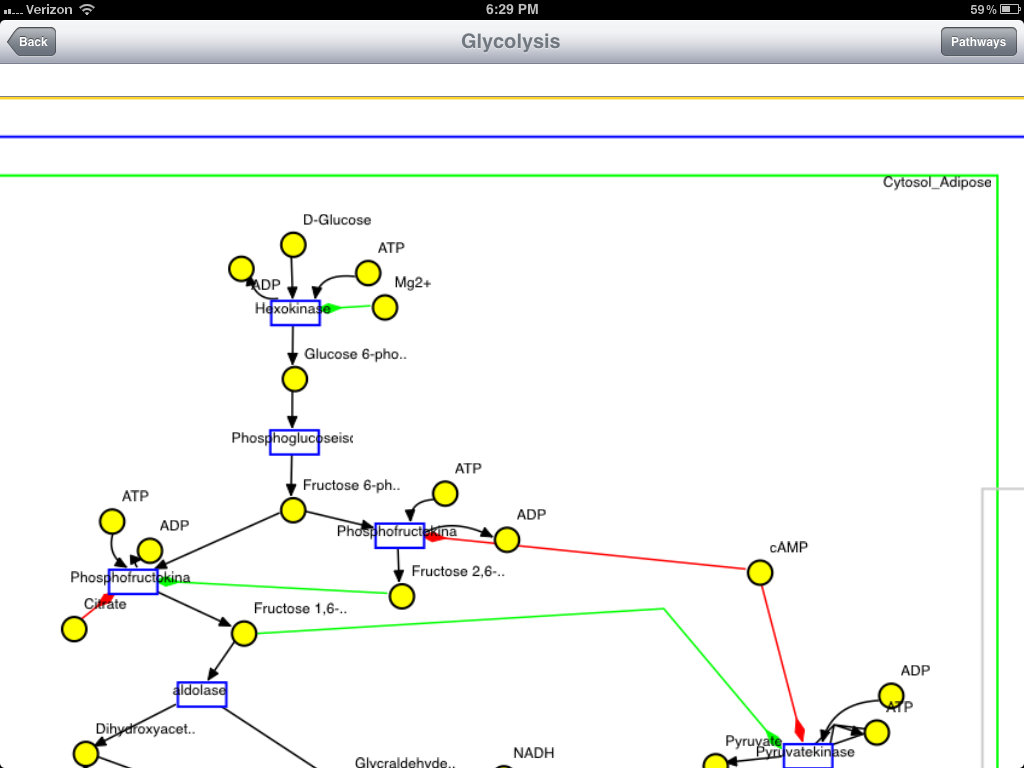
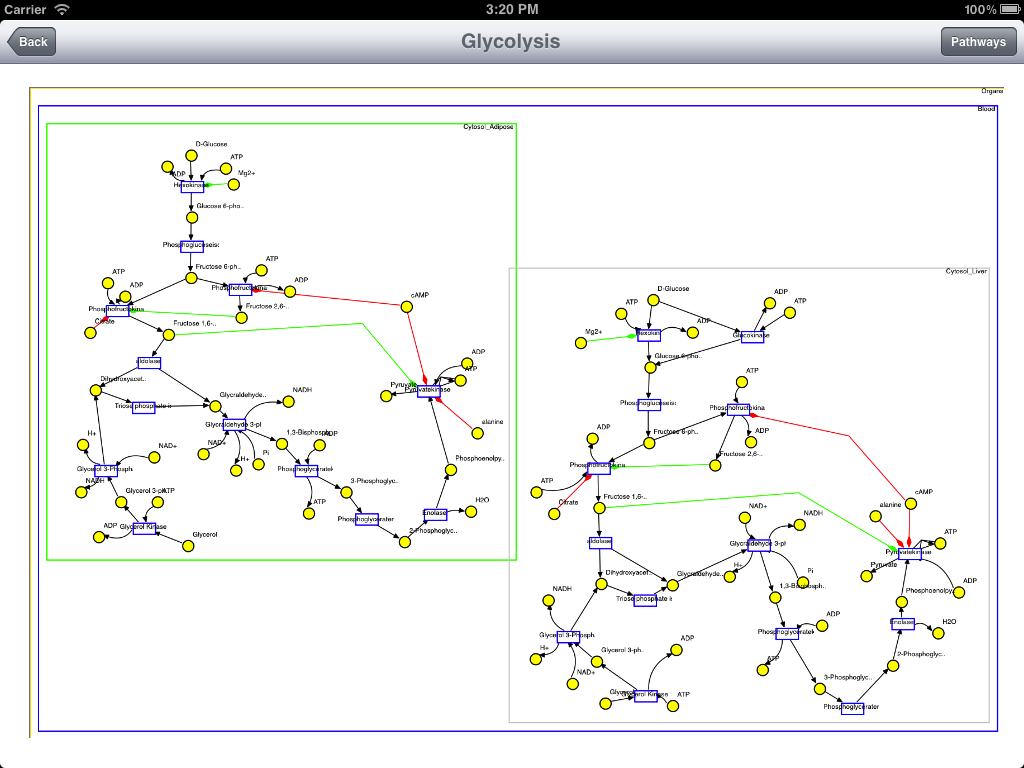
New SMDA interface section

diff --git a/maw/interface.tex b/maw/interface.tex
@@ -1,9 +1,14 @@
 \subsection{Interface}
 \label{sect:maw_interface}
 
+The home screen of \mawapp displays a list of pathways that the user can choose
+from to view a graph. This screen is shown in figure
+\ref{fig:maw_screenshot_list}. It also contains a brief explanation of the
+PathCase database and instructions for using \mawapp. The button in the bottom
+left corner activates the SMDA tool, described in section \ref{sect:smda}.
+
 \begin{figure}[htbp]
     \center{
-        % \includegraphics[width=\columnwidth]{maw/figures/screenshot_list}}
         \includegraphics[width=4.5in]{maw/figures/screenshot_list}}
     \caption{\label{fig:maw_screenshot_list} List of pathways on the main screen
     of \mawapp}
@@ -12,26 +17,35 @@
 \begin{figure}[hbtp]
     \center{
         \includegraphics[width=4.5in]{maw/figures/screenshot_glycolysis}}
-    \caption{\label{fig:maw_screenshot_pathway} Scrolling, zooming view of
-    Glycolysis}
+    \caption{\label{fig:maw_screenshot_pathway} Compartment-aware visualization
+    of Glycolysis}
 \end{figure}
 
-The home screen of \mawapp displays a list of pathways that the user can
-choose from to view a graph. This screen is shown in figure
-\ref{fig:maw_screenshot_list}. It also contains a brief explanation of the
-PathCase database and instructions for using \mawapp. The button in the bottom
-left corner activates the SMDA part of the app, described in section
-\ref{sect:smda}.
-
-After selecting a pathway, the user enters the graph view, where they can pan
-and zoom across a pathway. The view for glycolysis is shown in figure
+After selecting a pathway by tapping a row in the list, the user enters the
+pathway visualization. In this screen, they can drag across the screen with one
+finger to move the view. They can use two fingers in a pinching motion to zoom
+in or out. The view for glycolysis is shown in figure
 \ref{fig:maw_screenshot_pathway}.
 
-The rectangular nodes of the graph represent processes. The rest of the nodes
-represent metabolites. The edges represent relationships such as product,
-substrate, cofactor, or inhibitor. The rectangular outlines around sections of
-the graph represent the compartment that the pathway is classified under.
+The pathway visualization consists of several components. The most important are
+the nodes in the graph. The rectangular nodes represent reactions. The rest of
+the nodes represent metabolites. The edges represent relationships such as
+product, substrate, cofactor, or inhibitor. The rectangular outlines around
+sections of the graph represent the compartment that the pathway is classified
+under.
+
+In figure \ref{fig:maw_screenshot_pathway}, Glycolysis is displayed in two
+different compartments: $Organs \rightarrow Blood \rightarrow Cytosol\_Adipose$
+and $Organs \rightarrow Blood \rightarrow Cytosol\_Liver$. These compartments
+are shown using nested rectangles with text labels in the upper right corner.
+
+\begin{figure}[hbtp]
+    \center{
+        \includegraphics[width=3in]{maw/figures/screenshot_glycolysis_popover}}
+    \caption{\label{fig:maw_screenshot_popover} Tapping a node displays a
+    popover with the node's full name}
+\end{figure}
 
 When a node is tapped, a popover appears with the full name of the object
 represented by the nodes, as well as any relevant relationships or other
-information.
+information. Figure \ref{fig:maw_screenshot_popover} demonstrates this behavior.
